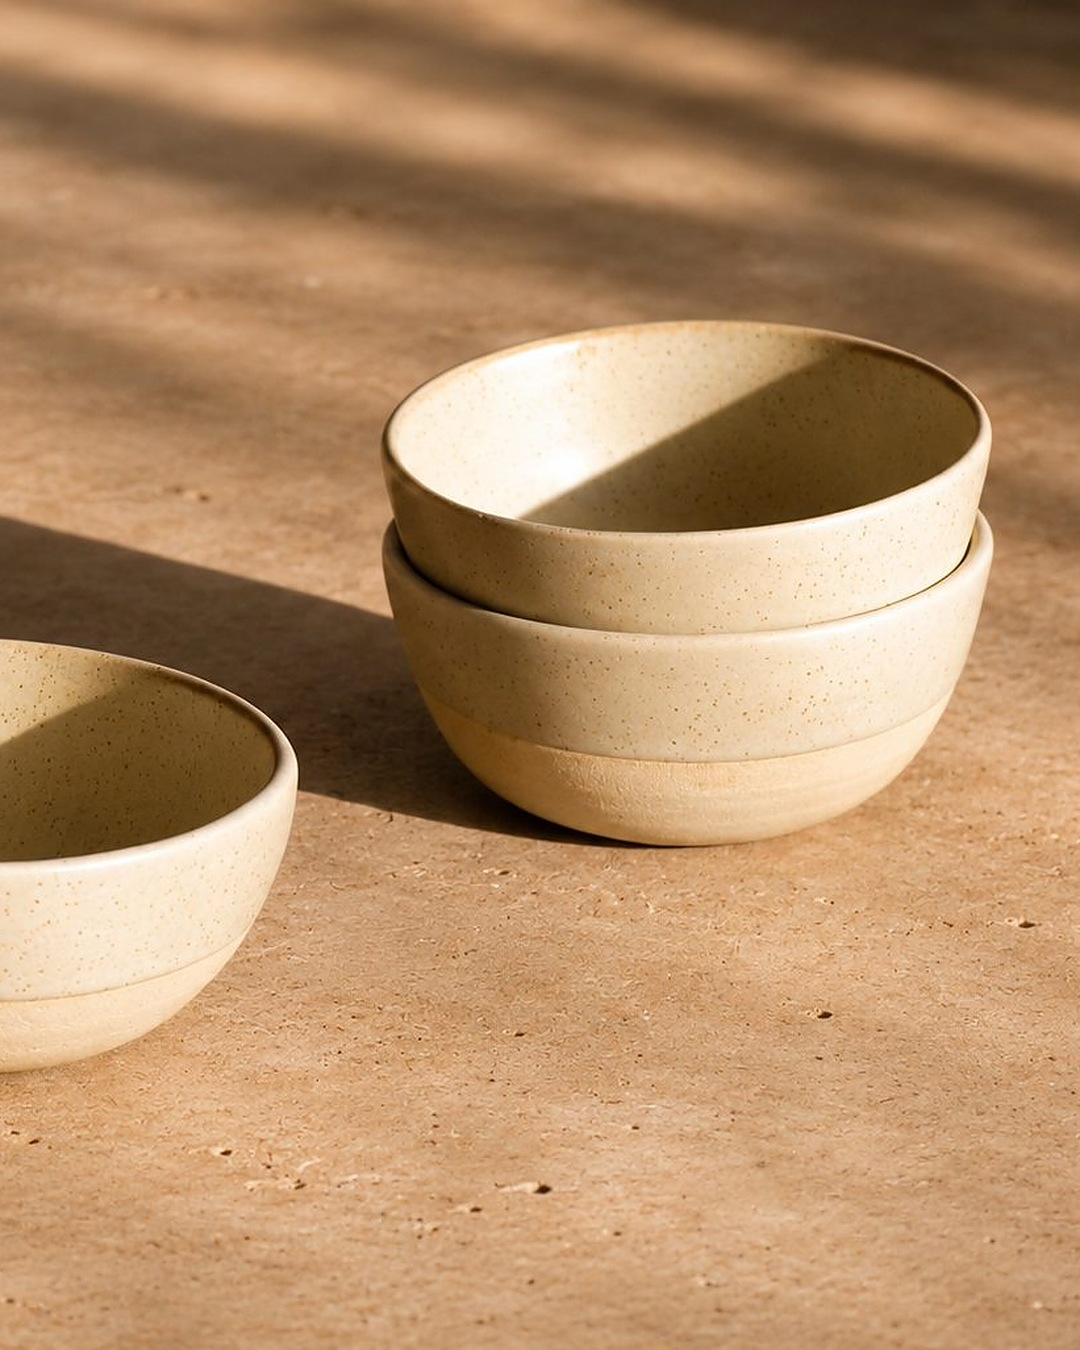
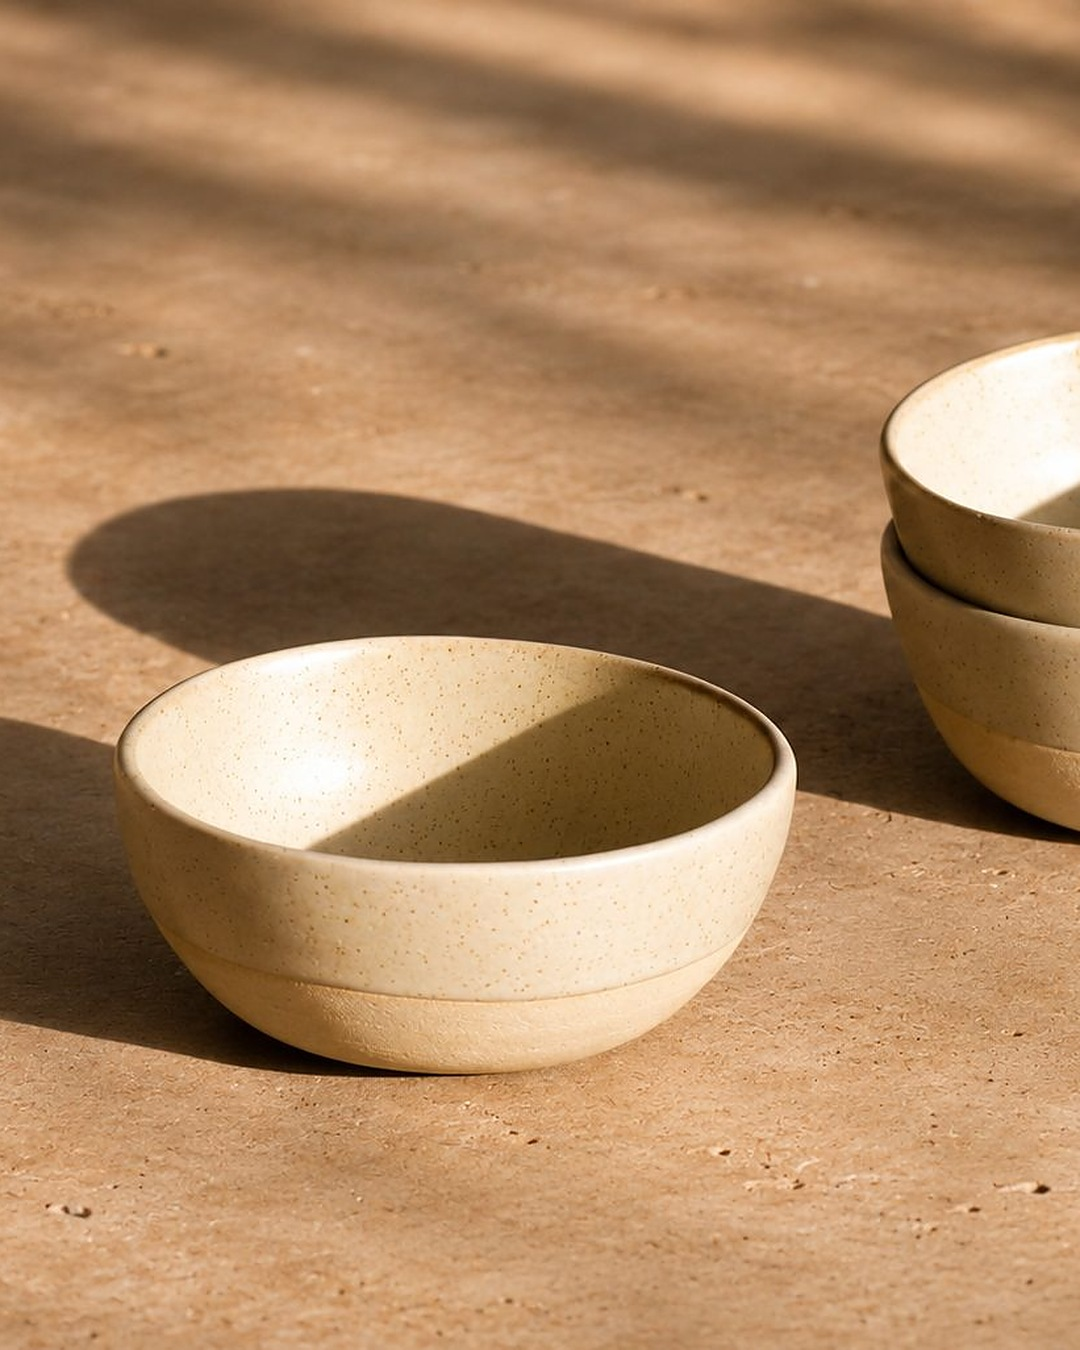
Bowl Hueso: encuadre centrado en el bowl solo

diff --git a/simulador/vajilla/index.html b/simulador/vajilla/index.html
@@ -171,11 +171,11 @@
     </div>
 
     <div class="hl">
-      <div><img src="06_platos_salvia.jpg?v=20261120d" alt="">Platos</div>
-      <div><img src="14_laguna.jpg?v=20261120d" alt="">Bowls</div>
-      <div><img src="10_vasos_avena.jpg?v=20261120d" alt="">Tazas</div>
-      <div><img src="11_barro.jpg?v=20261120d" alt="">Ensaladeras</div>
-      <div><img src="08_belen.jpg?v=20261120d" alt="">Taller</div>
+      <div><img src="06_platos_salvia.jpg?v=20261120e" alt="">Platos</div>
+      <div><img src="14_laguna.jpg?v=20261120e" alt="">Bowls</div>
+      <div><img src="10_vasos_avena.jpg?v=20261120e" alt="">Tazas</div>
+      <div><img src="11_barro.jpg?v=20261120e" alt="">Ensaladeras</div>
+      <div><img src="08_belen.jpg?v=20261120e" alt="">Taller</div>
       <div class="new"><span><svg viewBox="0 0 24 24"><path d="M5 12h14"/><path d="M12 5v14"/></svg></span>Nueva</div>
     </div>
 
@@ -247,7 +247,7 @@
   let FS = 3;
   try{ FS = +(new URLSearchParams(location.search).get("fuente") || localStorage.getItem("tenta_fuente_v2") || 1) || 1; }catch(e){}
   const cardKey = img => CARDS.find(k => img.replace(/\.jpg$/,"").endsWith("_"+k));
-  const VER = "20261120d";
+  const VER = "20261120e";
   const srcOf = img => { const k=cardKey(img); return (k ? `fuentes/${FS}/${k}.jpg` : img) + "?v=" + VER; };
   function setFont(n){
     FS=n; try{ localStorage.setItem("tenta_fuente_v2",n); }catch(e){}
